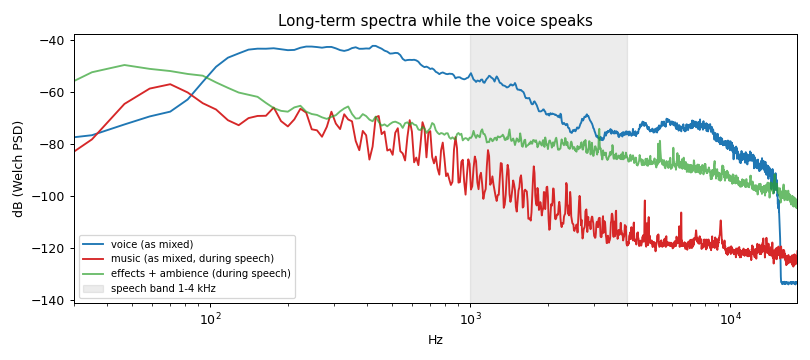
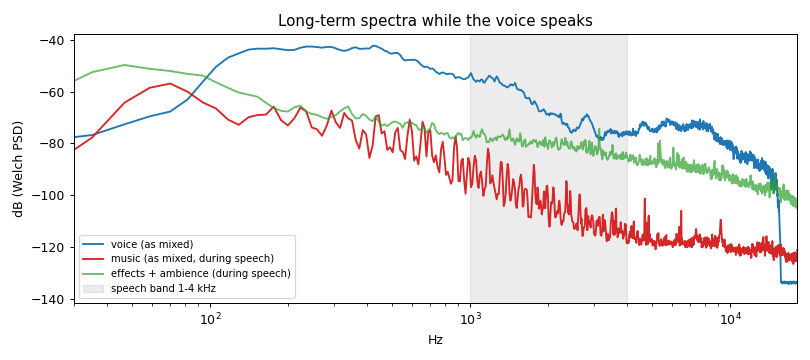
Episode 06 renders and latest work

diff --git a/audio_build/ep03v2/REPORT.md b/audio_build/ep03v2/REPORT.md
@@ -12,8 +12,8 @@ Files: `F:/YouTube Channels/Bits in Motion/Claude Work/Episode 03 - AI Answers/a
 | true peak (ffmpeg, 4x) / numpy 8x | -1.3 / -1.29 dBTP | ≤ -1.0 |
 | loudness range (LRA) | 2.3 LU | 4-8 |
 | LRA of the narration alone (fixed gain) | 2.34 LU | locked |
-| narration alignment, mixed voice vs raw decode | lag 0 samples, r = 0.994317 | 0 |
-| narration alignment, final mix vs raw decode | lag 0 samples, r = 0.97777 | 0 |
+| narration alignment, mixed voice vs raw decode | lag 0 samples, r = 0.994316 | 0 |
+| narration alignment, final mix vs raw decode | lag 0 samples, r = 0.977625 | 0 |
 | narration processing | fixed gain +8.01 dB, true-peak limiter (max GR -5.25 dB, 2.31% of samples reduced by > 1 dB) | gain + limiter only |
 
 **LRA is below target, and this is a property of the locked narration.** The voice is spoken almost without pause: only 34 pauses of 0.4 s or more in 612 s, none longer than about 0.5 s. Its own short-term loudness spans only 2.34 LU. Music must stay at least 18 LU under the voice wherever it speaks, so it cannot move a 3-second loudness window. Simulation on the mixed stems: raising every effect by +4 dB moves the LRA only from 2.29 to 2.39 LU, and +6 dB moves it to 2.62 LU, with effects then louder than the words they land on. Reaching 4 LU would mean riding the narration's level, which the brief forbids, or burying words under effects. The mix keeps its dynamics *inside* the music and effects instead: drop-outs before reveals, a silent suck-out before the Bridge, hits in the pauses, and swells in every pause of 0.4 s or more.
@@ -22,28 +22,28 @@ Files: `F:/YouTube Channels/Bits in Motion/Claude Work/Episode 03 - AI Answers/a
 
 | window class (speech share) | windows | min gap | 5th pct | median |
 |---|---|---|---|---|
-| 400ms (≥95% speech) | 5396 | 19.04 LU | 20.2 LU | 24.27 LU |
-| 1s (≥90% speech) | 2489 | 19.29 LU | 20.94 LU | 23.88 LU |
-| 3s (≥50% speech) | 2437 | 19.05 LU | 20.16 LU | 22.98 LU |
-| integrated over all speech | | | | 24.16 LU |
+| 400ms (≥95% speech) | 5396 | 19.04 LU | 20.12 LU | 23.76 LU |
+| 1s (≥90% speech) | 2489 | 19.3 LU | 20.86 LU | 23.34 LU |
+| 3s (≥50% speech) | 2437 | 19.05 LU | 20.13 LU | 22.42 LU |
+| integrated over all speech | | | | 23.89 LU |
 
-Requirement: ≥ 18 LU wherever the voice speaks. Closed-loop trims: up to 16.9 dB on the loudest score moments. In the 34 pauses of 0.4 s or more, the music rises toward about 9.5 LU under the voice (an attack of 0.14 s after the voice stops, and back down 60 ms before it returns).
+Requirement: ≥ 18 LU wherever the voice speaks. Closed-loop trims: up to 12.5 dB on the loudest score moments. In the 34 pauses of 0.4 s or more, the music rises toward about 9.5 LU under the voice (an attack of 0.14 s after the voice stops, and back down 60 ms before it returns).
 
 **Spectral balance (Welch long-term spectra, speech-only stretches):**
 
 | band (Hz) | voice dB | music dB | voice − music | voice − (effects + ambience) |
 |---|---|---|---|---|
-| 31-63 | -67.3 | -57.8 | -9.5 | -21.0 |
-| 63-125 | -44.9 | -54.6 | 9.6 | 2.4 |
-| 125-250 | -33.1 | -59.1 | 25.9 | 20.7 |
-| 250-500 | -30.2 | -60.0 | 29.8 | 26.1 |
-| 500-1000 | -33.8 | -63.4 | 29.5 | 24.5 |
-| 1000-2000 | -38.8 | -74.3 | 35.5 | 20.2 |
-| 2000-4000 | -50.6 | -85.0 | 34.4 | 8.9 |
-| 4000-8000 | -48.0 | -91.1 | 43.1 | 13.9 |
-| 8000-16000 | -53.1 | -91.7 | 38.5 | 12.8 |
+| 31-63 | -67.3 | -57.5 | -9.8 | -21.0 |
+| 63-125 | -44.9 | -54.3 | 9.4 | 2.4 |
+| 125-250 | -33.1 | -58.7 | 25.6 | 20.7 |
+| 250-500 | -30.2 | -59.6 | 29.4 | 26.1 |
+| 500-1000 | -33.8 | -63.2 | 29.3 | 24.5 |
+| 1000-2000 | -38.8 | -73.9 | 35.1 | 20.2 |
+| 2000-4000 | -50.6 | -84.6 | 34.0 | 8.9 |
+| 4000-8000 | -48.0 | -90.7 | 42.6 | 13.9 |
+| 8000-16000 | -53.1 | -91.2 | 38.0 | 12.8 |
 
-In the speech band (1-4 kHz) the voice sits **35.4 dB** above the music. That band holds 7% of the voice's energy but only 0.5% of the music's. The carve is dynamic: −7 dB at 2.5 kHz, −3 dB at 1.2 kHz and −2 dB at 4.2 kHz while the voice speaks, and −2 dB in pauses. The arrangement itself also stays out of the band: pads are low-passed at 0.45-2 kHz, the percussion lives below 260 Hz or above 6 kHz, and the stems carry a static −2 to −6 dB dip near 2.5 kHz. See `report_balance.png`.
+In the speech band (1-4 kHz) the voice sits **35.0 dB** above the music. That band holds 7% of the voice's energy but only 0.5% of the music's. The carve is dynamic: −7 dB at 2.5 kHz, −3 dB at 1.2 kHz and −2 dB at 4.2 kHz while the voice speaks, and −2 dB in pauses. The arrangement itself also stays out of the band: pads are low-passed at 0.45-2 kHz, the percussion lives below 260 Hz or above 6 kHz, and the stems carry a static −2 to −6 dB dip near 2.5 kHz. See `report_balance.png`.
 
 ## 3. Effects: density, stacking, sync
 
@@ -81,15 +81,15 @@ In the speech band (1-4 kHz) the voice sits **35.4 dB** above the music. That ba
 
 | section | frames | music − voice (LU) | music short-term range in the section (P10-P95, LU) |
 |---|---|---|---|
-| S1 cold open + title | 0-1582 | -22.0 | -39.6 to -34.5 |
-| S2 tokens | 1582-2811 | -23.7 | -39.5 to -35.0 |
-| S3 scoring, loop, streaming | 2811-4897 | -24.4 | -41.4 to -35.7 |
-| S4 reading vs writing | 4897-6524 | -23.0 | -39.0 to -34.9 |
-| S5 weights + THE BRIDGE | 6524-9507 | -23.4 | -39.6 to -35.4 |
-| S6 experiment + bandwidth | 9507-11907 | -22.9 | -39.9 to -34.8 |
-| S7 three waits | 11907-15091 | -23.0 | -39.3 to -34.4 |
-| S8 tricks | 15091-17080 | -22.8 | -39.7 to -35.4 |
-| S9 close + finale | 17080-18367 | -23.3 | -39.8 to -36.0 |
+| S1 cold open + title | 0-1582 | -21.8 | -38.3 to -34.3 |
+| S2 tokens | 1582-2811 | -23.6 | -39.2 to -34.9 |
+| S3 scoring, loop, streaming | 2811-4897 | -24.0 | -41.1 to -35.7 |
+| S4 reading vs writing | 4897-6524 | -22.6 | -38.3 to -34.9 |
+| S5 weights + THE BRIDGE | 6524-9507 | -23.0 | -39.2 to -35.3 |
+| S6 experiment + bandwidth | 9507-11907 | -22.7 | -39.6 to -34.7 |
+| S7 three waits | 11907-15091 | -22.9 | -38.9 to -35.0 |
+| S8 tricks | 15091-17080 | -22.6 | -39.2 to -35.2 |
+| S9 close + finale | 17080-18367 | -22.8 | -39.5 to -36.0 |
 
 ## 4. Hero moments (spectrograms)
 
